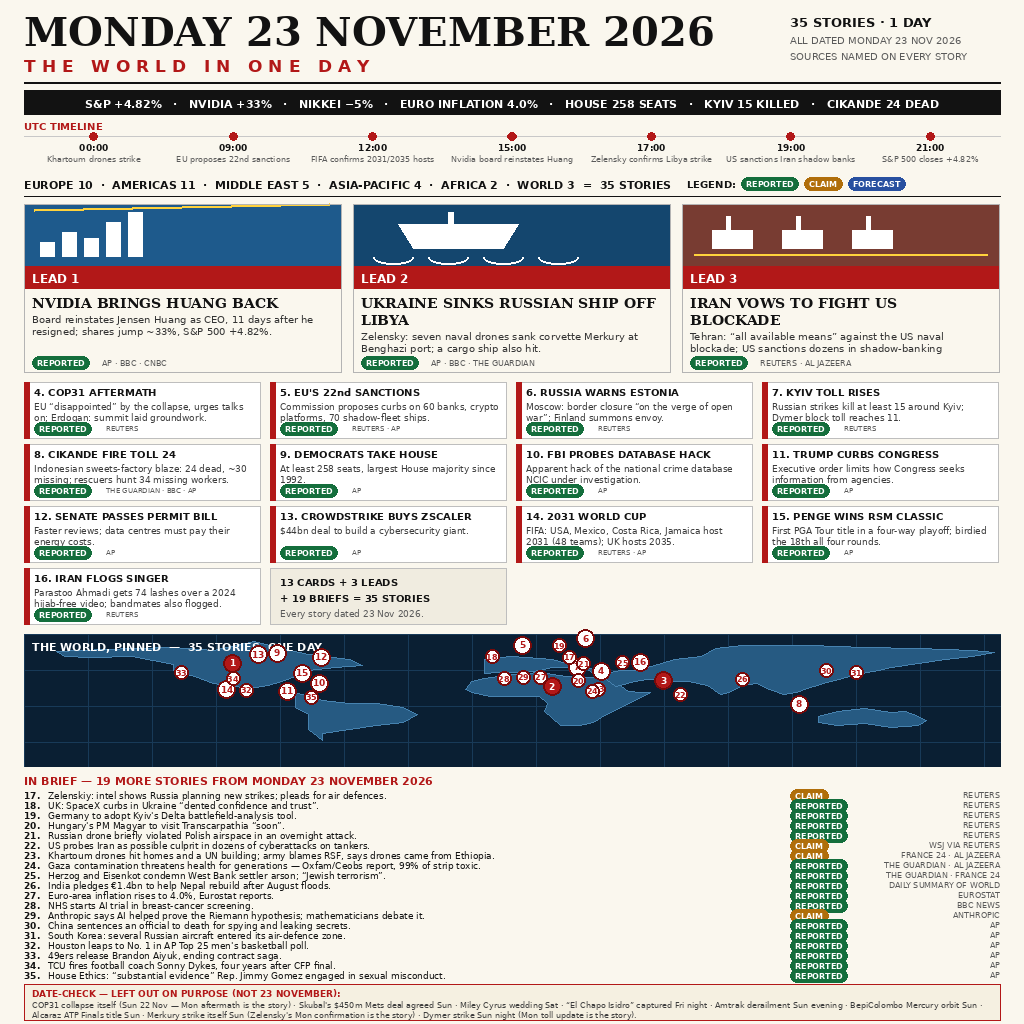
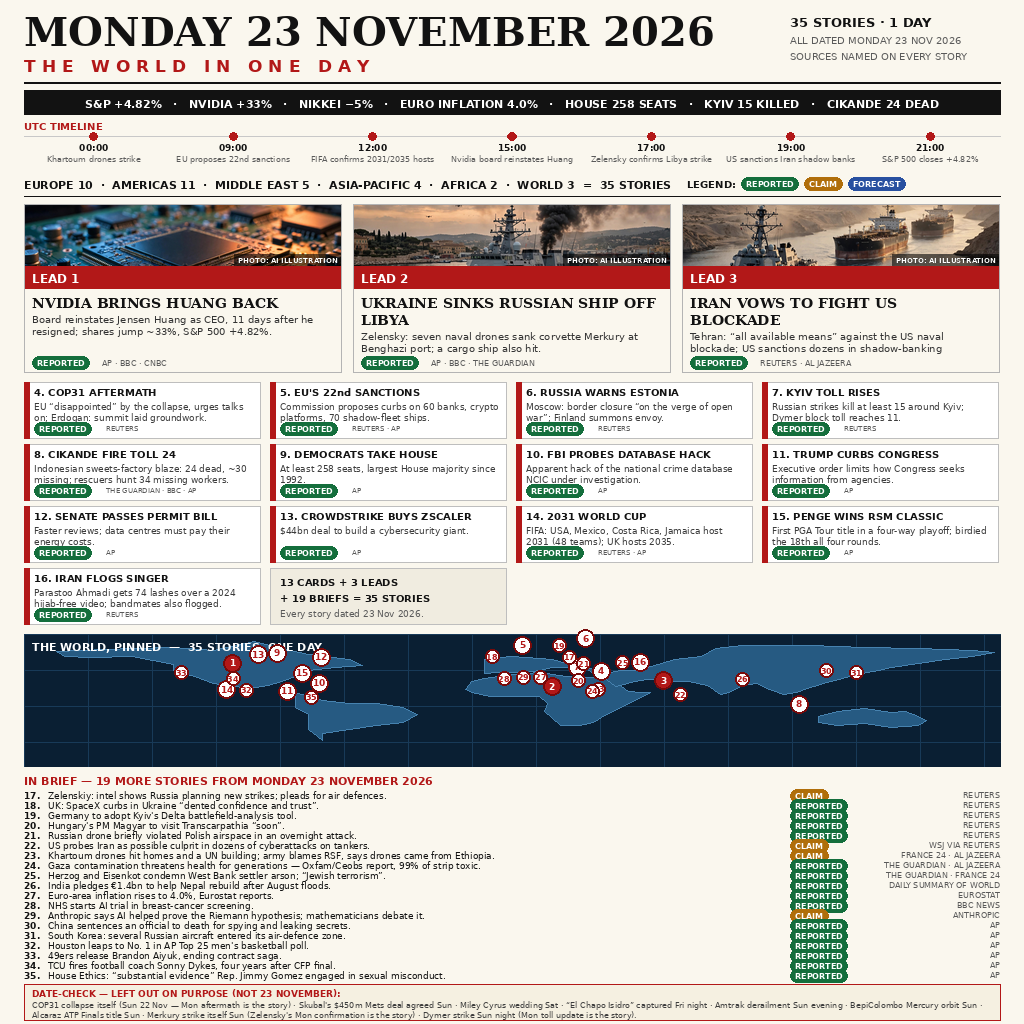
Add files via upload

Changed region(s): [[0.0, 0.1875, 1.0, 0.2812]]

diff --git a/build_image.py b/build_image.py
@@ -1,9 +1,11 @@
 #!/usr/bin/env python3
 """Render the news-image-20261123 broadsheet (1024x1024 PNG).
 
-Fresh build for Monday 23 November 2026. All art is drawn in code with
-Pillow; no photos, no downloads, no network. Deterministic output:
-fixed fonts, fixed layout, no timestamps, no randomness.
+Fresh build for Monday 23 November 2026. Page art is drawn in code with
+Pillow; the three lead stories use photorealistic images loaded from
+assets/lead1.jpg .. lead3.jpg (AI illustrations, captioned as such).
+No downloads, no network. Deterministic output: fixed fonts, fixed
+layout, no timestamps, no randomness.
 """
 import hashlib
 import os
@@ -162,6 +164,28 @@ def draw_map(draw, x0, y0, w, h):
         draw.text((px - tw / 2, py - 6 if big else py - 5), str(n), font=f,
                   fill=(255, 255, 255) if n <= 3 else (178, 24, 24))
 
+ASSETS = os.path.join(os.path.dirname(os.path.abspath(__file__)), "assets")
+LEAD_PHOTOS = ["lead1.jpg", "lead2.jpg", "lead3.jpg"]
+
+def lead_photo(idx, w, h):
+    """Center-crop lead photo idx to exactly w x h, with a small
+    'PHOTO: AI ILLUSTRATION' caption in the bottom-right corner."""
+    p = Image.open(os.path.join(ASSETS, LEAD_PHOTOS[idx])).convert("RGB")
+    sw, sh = p.size
+    scale = max(w / sw, h / sh)
+    nw, nh = max(w, round(sw * scale)), max(h, round(sh * scale))
+    p = p.resize((nw, nh), Image.LANCZOS)
+    left, top = (nw - w) // 2, (nh - h) // 2
+    p = p.crop((left, top, left + w, top + h))
+    cap = "PHOTO: AI ILLUSTRATION"
+    cf = F_SANS_B(7)
+    tw = int(ImageDraw.Draw(p).textlength(cap, font=cf))
+    ov = Image.new("RGBA", p.size, (0, 0, 0, 0))
+    od = ImageDraw.Draw(ov)
+    od.rectangle([w - tw - 8, h - 12, w, h], fill=(0, 0, 0, 150))
+    od.text((w - tw - 4, h - 10), cap, font=cf, fill=(255, 255, 255, 255))
+    return Image.alpha_composite(p.convert("RGBA"), ov).convert("RGB")
+
 def main():
     img = Image.new("RGB", (W, H), PAPER)
     d = ImageDraw.Draw(img)
@@ -204,23 +228,8 @@ def main():
     lh = 168
     for i, (n, head, body, outlet, tag, col) in enumerate(LEADS):
         x = M + i * (lw + 12)
-        d.rectangle([x, ly, x + lw, ly + 62], fill=col)
-        # simple illustration: bars / waves / blockade
-        if i == 0:
-            base = ly + 52
-            for j, bh in enumerate((14, 24, 18, 34, 44)):
-                d.rectangle([x + 16 + j * 22, base - bh, x + 30 + j * 22, base], fill=(255, 255, 255))
-            d.line([(x + 10, base - 46), (x + lw - 12, base - 52)], fill=(255, 210, 60), width=3)
-        elif i == 1:
-            d.polygon([(x + 60, ly + 44), (x + 150, ly + 44), (x + 165, ly + 20), (x + 45, ly + 20)], fill=(255, 255, 255))
-            d.rectangle([x + 95, ly + 8, x + 100, ly + 20], fill=(255, 255, 255))
-            for j in range(4):
-                d.arc([x + 20 + j * 55, ly + 46, x + 60 + j * 55, ly + 60], 0, 180, fill=(255, 255, 255), width=2)
-        else:
-            for j in range(3):
-                d.rectangle([x + 30 + j * 70, ly + 26, x + 70 + j * 70, ly + 44], fill=(255, 255, 255))
-                d.rectangle([x + 44 + j * 70, ly + 12, x + 48 + j * 70, ly + 26], fill=(255, 255, 255))
-            d.line([(x + 12, ly + 50), (x + lw - 12, ly + 50)], fill=(255, 210, 60), width=2)
+        # photorealistic lead image (assets/lead<i+1>.jpg) fills the art box
+        img.paste(lead_photo(i, lw, 62), (x, ly))
         d.rectangle([x, ly + 62, x + lw, ly + 84], fill=RED)
         d.text((x + 8, ly + 67), "LEAD %d" % n, font=F_SANS_B(12), fill=(255, 255, 255))
         # headline wrapped to 2 lines max

diff --git a/main.py b/main.py
@@ -12,7 +12,7 @@ import sys
 
 HERE = os.path.dirname(os.path.abspath(__file__))
 SRC = os.path.join(HERE, "entry.png")
[2 lines of base64/hex data omitted]
 
 
 def main():
